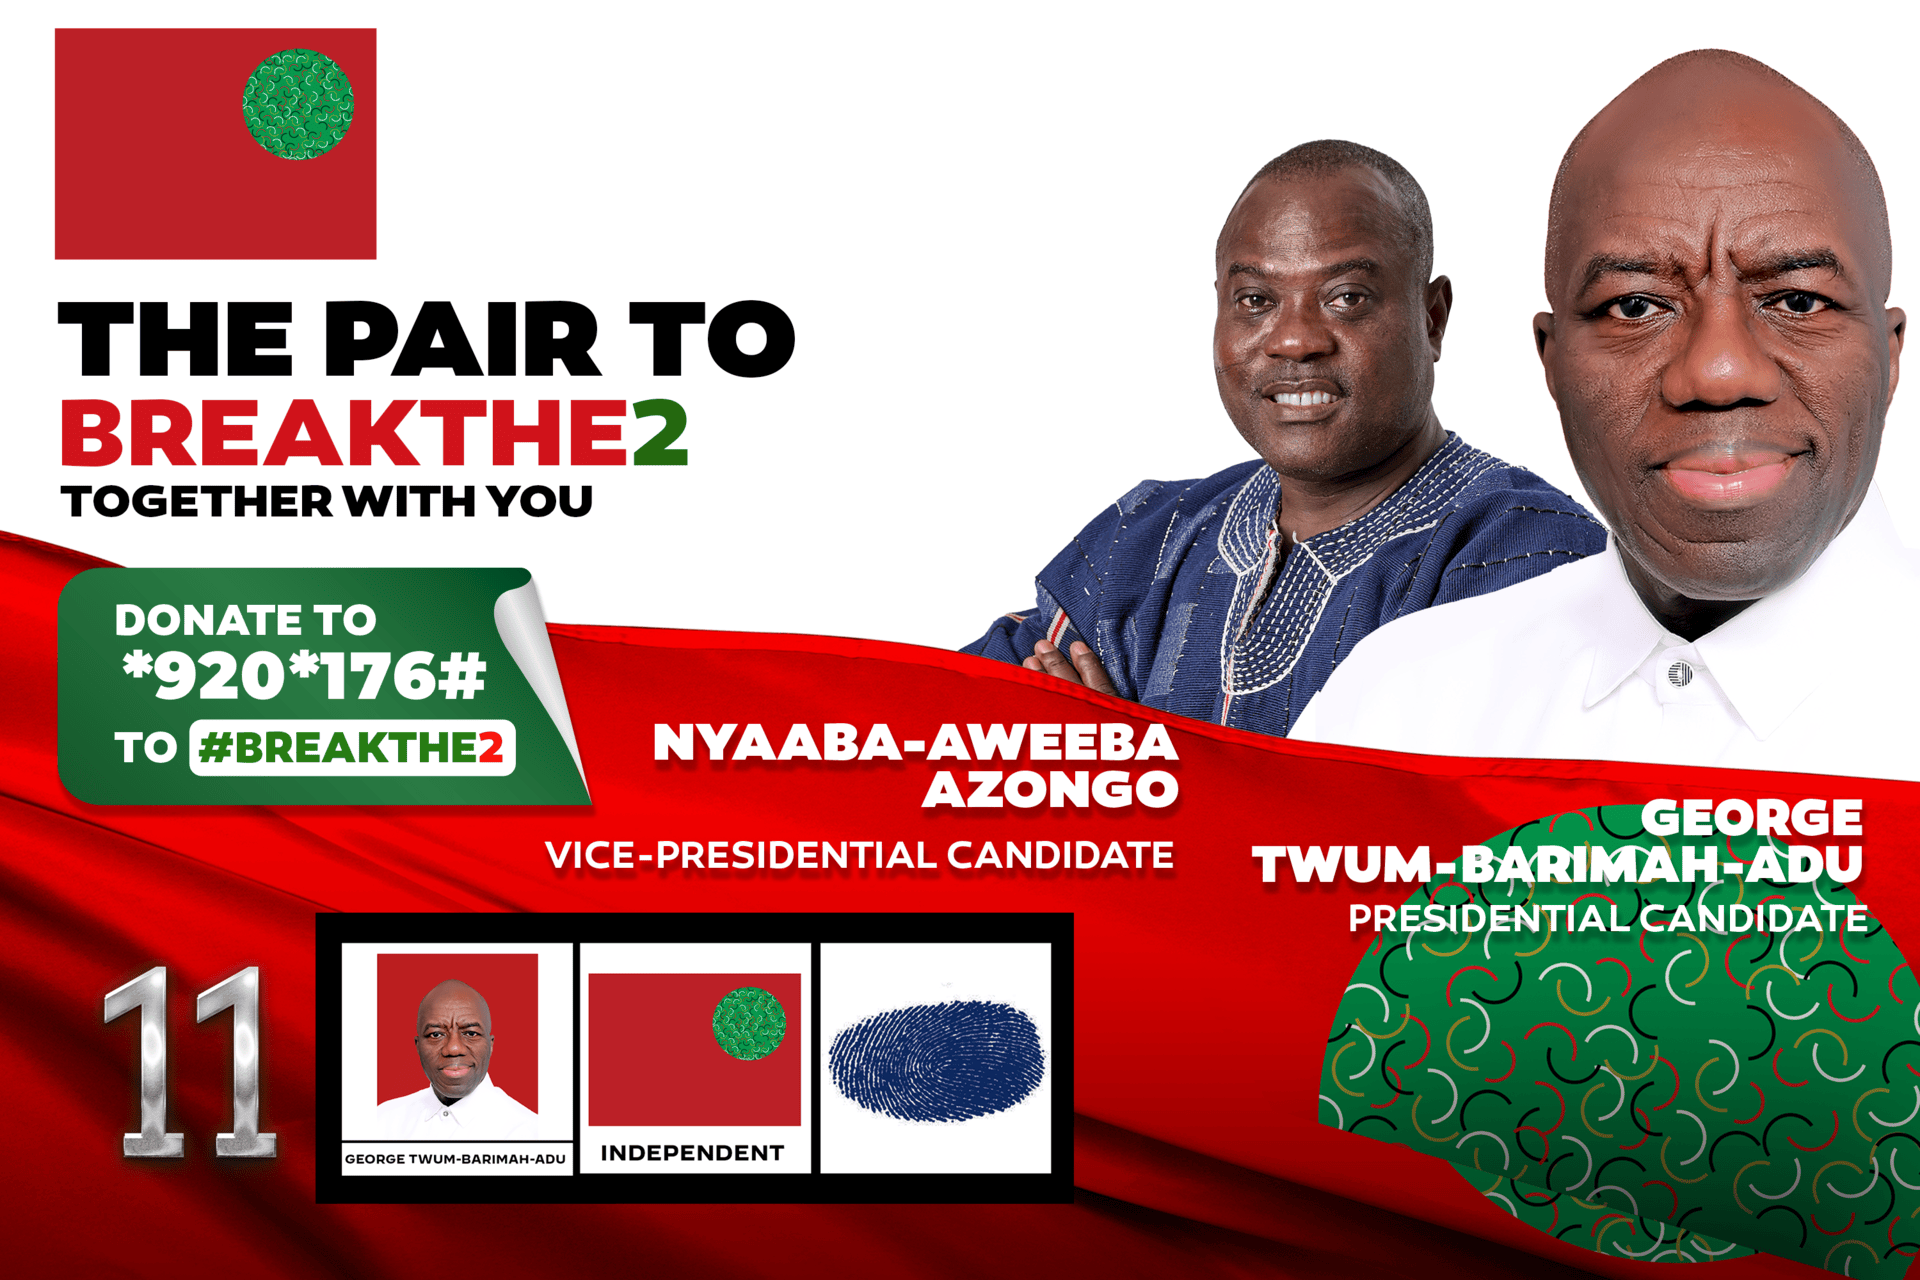
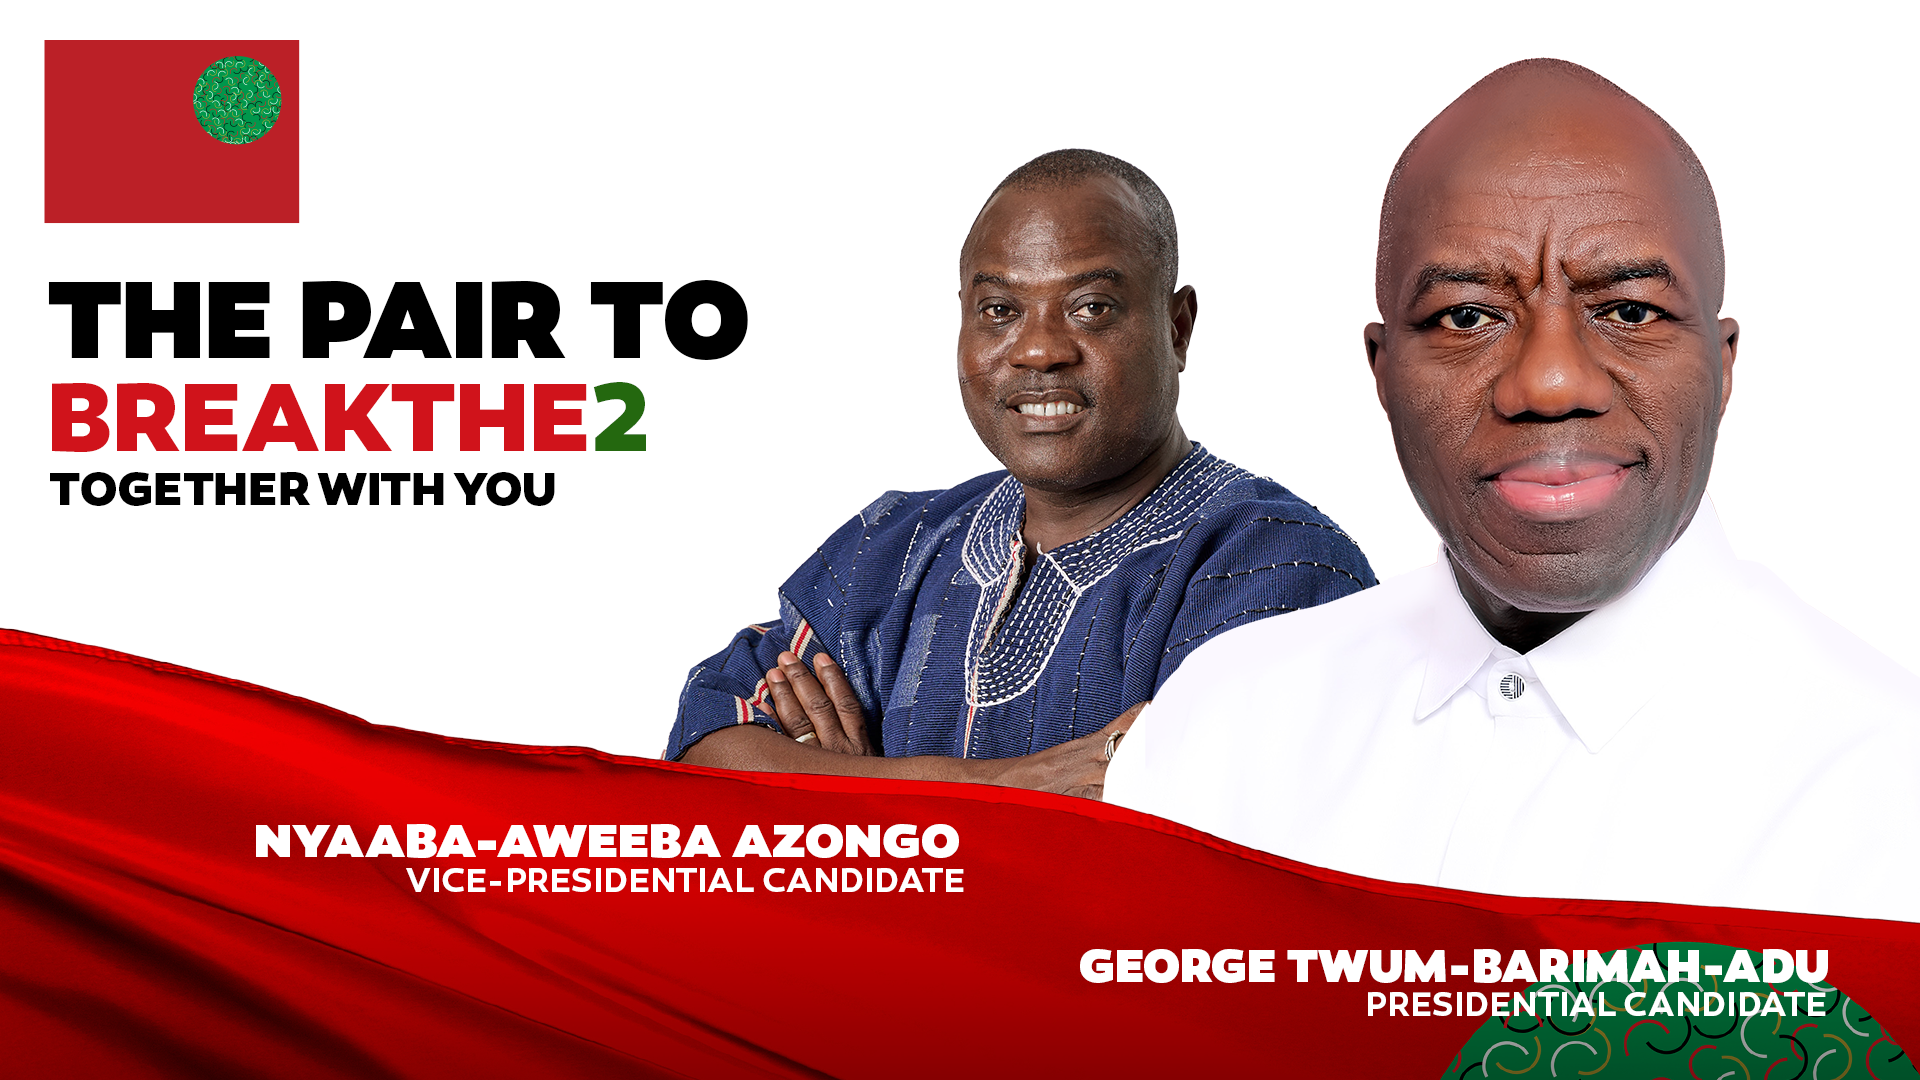
Donate Links Removed

diff --git a/src/components/HeroCarousel.jsx b/src/components/HeroCarousel.jsx
@@ -7,7 +7,7 @@ import "slick-carousel/slick/slick-theme.css";
 //import SlideImage_1 from "../assets/LandingPageCarouselImage_1.png";
 import SlideImage_2 from "../assets/LandingPageCarouselImage_2.png";
 import donateImage from "../assets/donateSliderImage.png";
-//import sliderImage_4 from "../assets/mt2 copy.png";
+import sliderImage_4 from "../assets/mt2 copy.png";
 import sliderImage_5 from "../assets/pair final.png";
 
 
@@ -16,9 +16,6 @@ import sliderImage_5 from "../assets/pair final.png";
 
 const HeroCarousel = () => {
 
-  var isDonateSlide = false;
-
-
   const settings = {
     dots: true,
     infinite: true,
@@ -26,7 +23,7 @@ const HeroCarousel = () => {
     slidesToShow: 1,
     slidesToScroll: 1,
     autoplay: true,
-    autoplaySpeed: isDonateSlide ? 8000 :5000,
+    autoplaySpeed: 5000,
     arrows: false,
     adaptiveHeight: true,
   };
@@ -51,17 +48,17 @@ const HeroCarousel = () => {
     {
       id: 3,
       image: donateImage,
-      showButton: true,
+      showButton: false,
       buttonText: "Donate",
       buttonLink: "https://donate4twum.vercel.app/",
     },
-    // {
-    //   id: 3,
-    //   image: sliderImage_4,
-    //   showButton: false,
-    //   buttonText: "",
-    //   buttonLink: "",
-    // },
+    {
+      id: 3,
+      image: sliderImage_4,
+      showButton: false,
+      buttonText: "",
+      buttonLink: "",
+    },
     {
       id: 3,
       image: sliderImage_5,
@@ -81,7 +78,6 @@ const HeroCarousel = () => {
             key={slide.id}
             className="relative w-full flex items-center justify-center"
           >
-          {isDonateSlide = slide.id === 3}
             <img
               src={slide.image}
               alt={`Slide ${slide.id}`}

diff --git a/src/components/navbar.jsx b/src/components/navbar.jsx
@@ -40,14 +40,14 @@ export default function Navbar({ useRed }) {
                 <img alt="Logo" className="w-full h-auto" src={Logo} />
               </Link>
               <div className="flex items-center gap-8">
-                <div className="hidden md:flex items-center">
+                {/* <div className="hidden md:flex items-center">
                   <Link
                     to="https://donate4twum.vercel.app/"
                     className="bg-[#b91f26] text-white text-2xl rounded-md px-4 py-2 font-bold"
                   >
                     <span className="button-text">Donate</span>
                   </Link>
-                </div>
+                </div> */}
                 {/* BURGER BUTTON */}
                 <Disclosure.Button className="z-30 w-12 inline-flex items-center justify-center text-red-700 p-2">
                   {open ? (
@@ -81,12 +81,12 @@ export default function Navbar({ useRed }) {
                 {item.name}
               </Disclosure.Button>
             ))}
-            <div className="md:hidden block mt-6 mb-6">
+            {/* <div className="md:hidden block mt-6 mb-6">
               <Link to="https://donate4twum.vercel.app/" className="bg-[#b91f26] text-white text-xl rounded-md px-3 py-2 font-semibold">
               
                 <span className="button-text">Donate</span>
                 </Link>
-            </div>
+            </div> */}
           </Disclosure.Panel>
         </>
       )}
